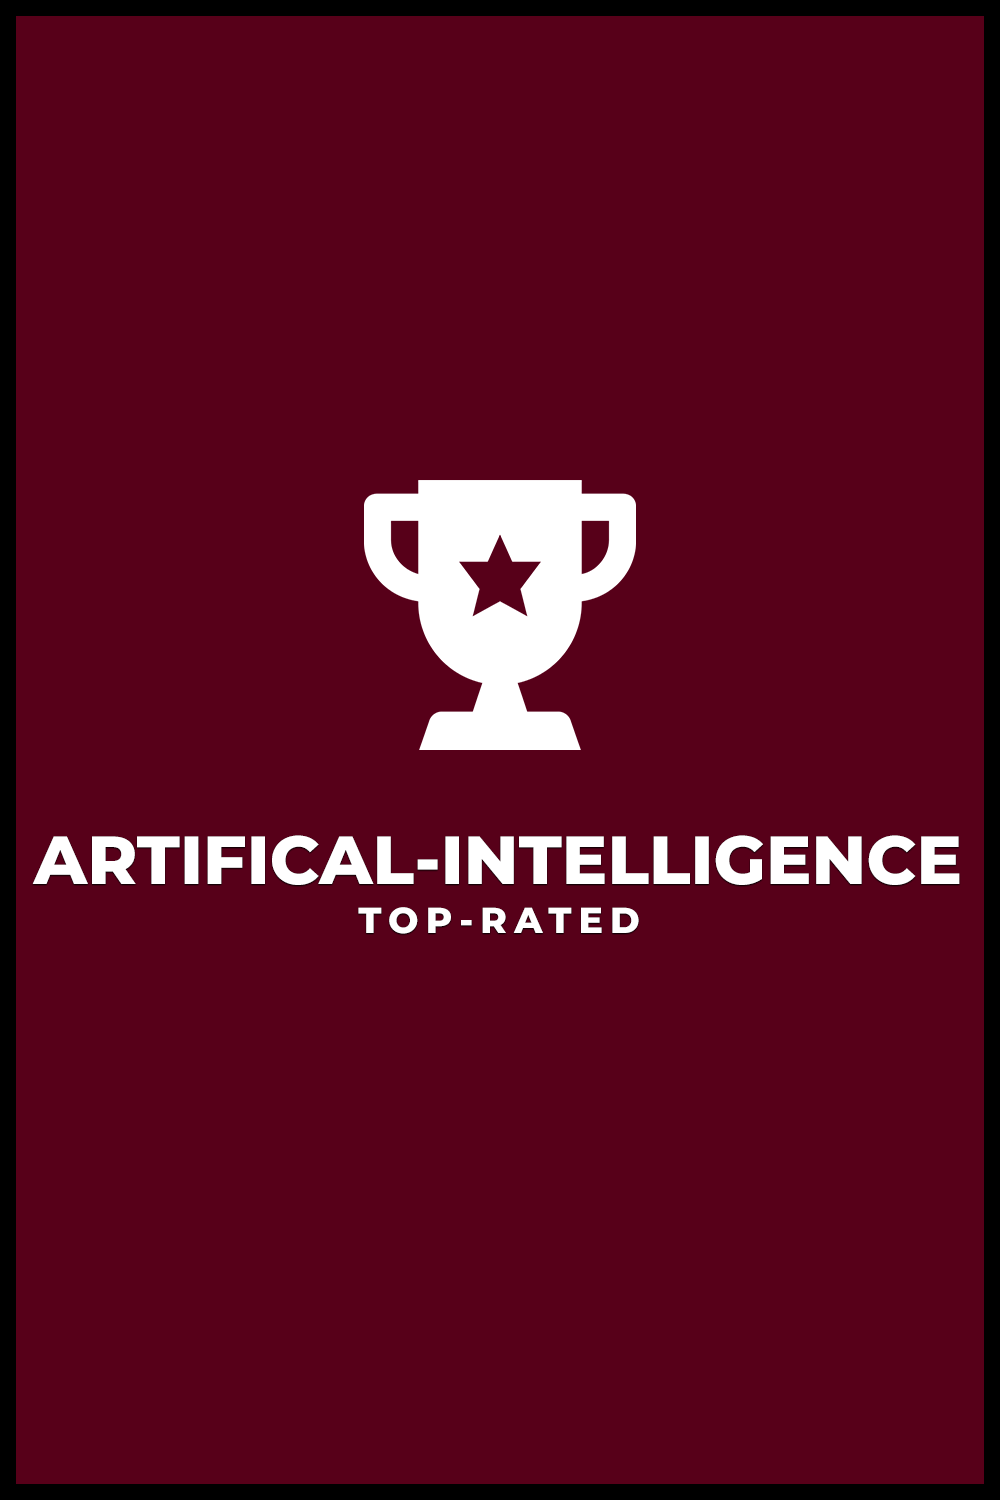
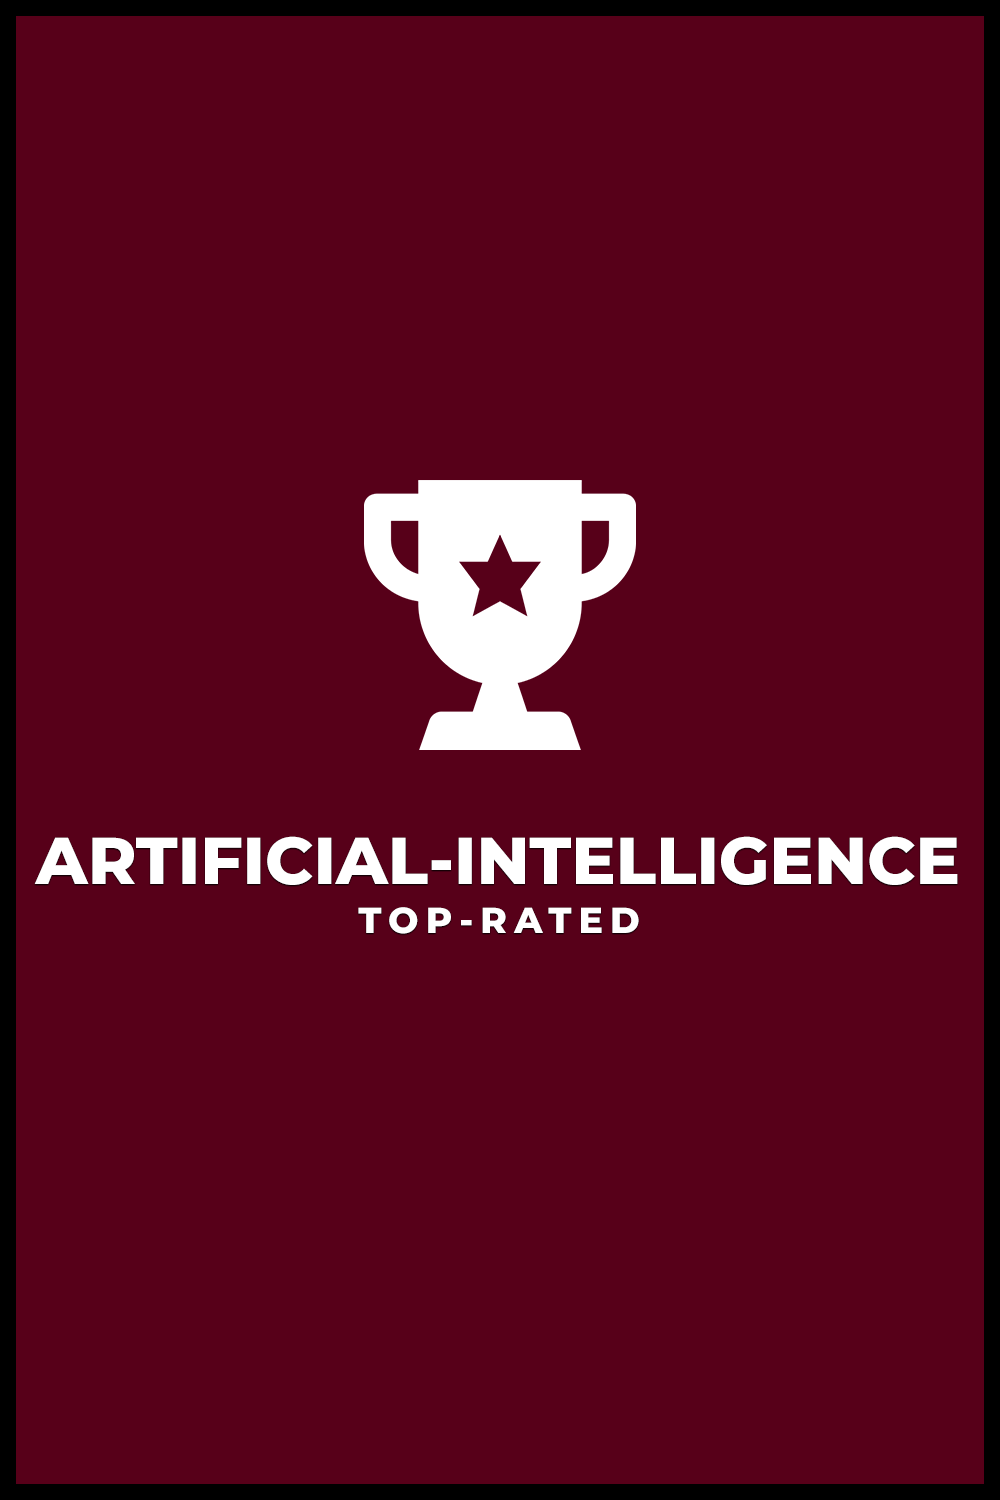
pmm.config

Changed region(s): [[0.124, 0.552, 0.961, 0.6133], [0.031, 0.552, 0.062, 0.5827]]

diff --git a/MOVIES.md b/MOVIES.md
@@ -146,10 +146,10 @@
   - Top Rated in Animatronic
   - Top Rated in Anti-Hero
   - Top Rated in Apocalypse
-  - Top Rated in Artifical Intelligence
+  - Top Rated in Artificial Intelligence
   - Top Rated in Assassins
   - Top Rated in Betrayal
-  - Top Rated in Black Comedy
+  - Top Rated in Blaxploitation
   - Top Rated in Boxing
   - Top Rated in Bugs
   - Top Rated in Cannibals
@@ -163,6 +163,7 @@
   - Top Rated in Costume Drama
   - Top Rated in Courtroom
   - Top Rated in Cyberpunk
+  - Top Rated in Dark Comedy
   - Top Rated in Dark Fantasy
   - Top Rated in Demonic
   - Top Rated in Detective
@@ -187,6 +188,7 @@
   - Top Rated in Historical Event
   - Top Rated in Hostage
   - Top Rated in Hustle
+  - Top Rated in LGBTQ+
   - Top Rated in Martial-Arts
   - Top Rated in Medical
   - Top Rated in Medieval
@@ -199,11 +201,13 @@
   - Top Rated in Naval
   - Top Rated in Ninjas
   - Top Rated in Novel
+  - Top Rated in Nunsploitation
   - Top Rated in Occult
   - Top Rated in Outerspace
   - Top Rated in Outlaw
   - Top Rated in Pandemic
   - Top Rated in Paranormal
+  - Top Rated in Parody
   - Top Rated in Period Drama
   - Top Rated in Petrolhead
   - Top Rated in Philosophical
